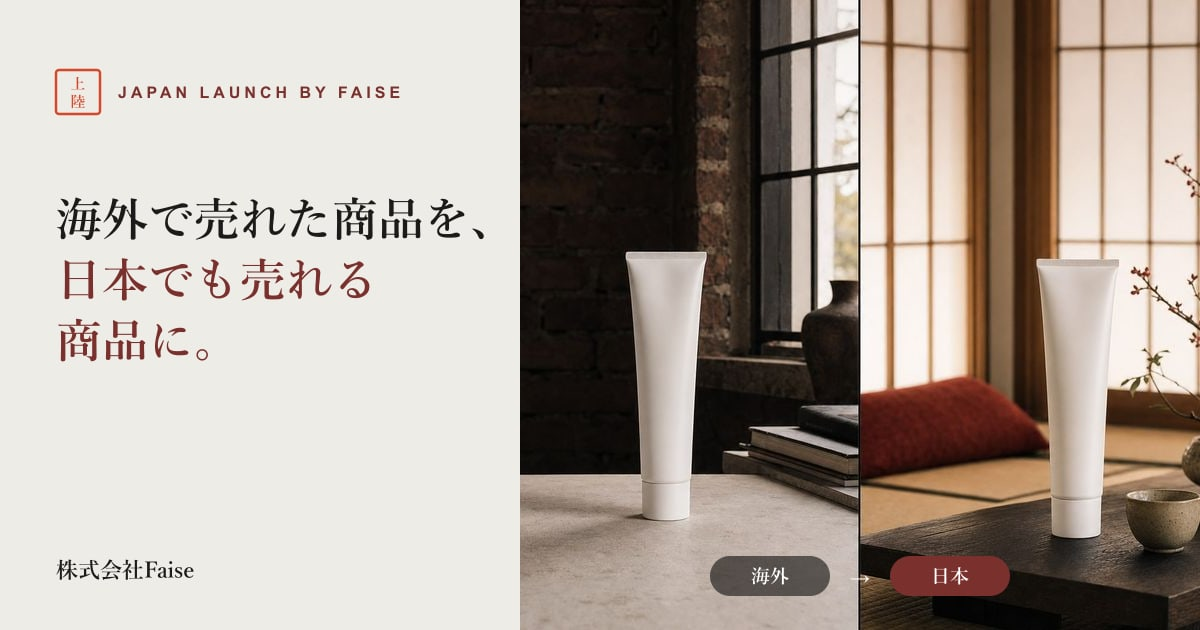
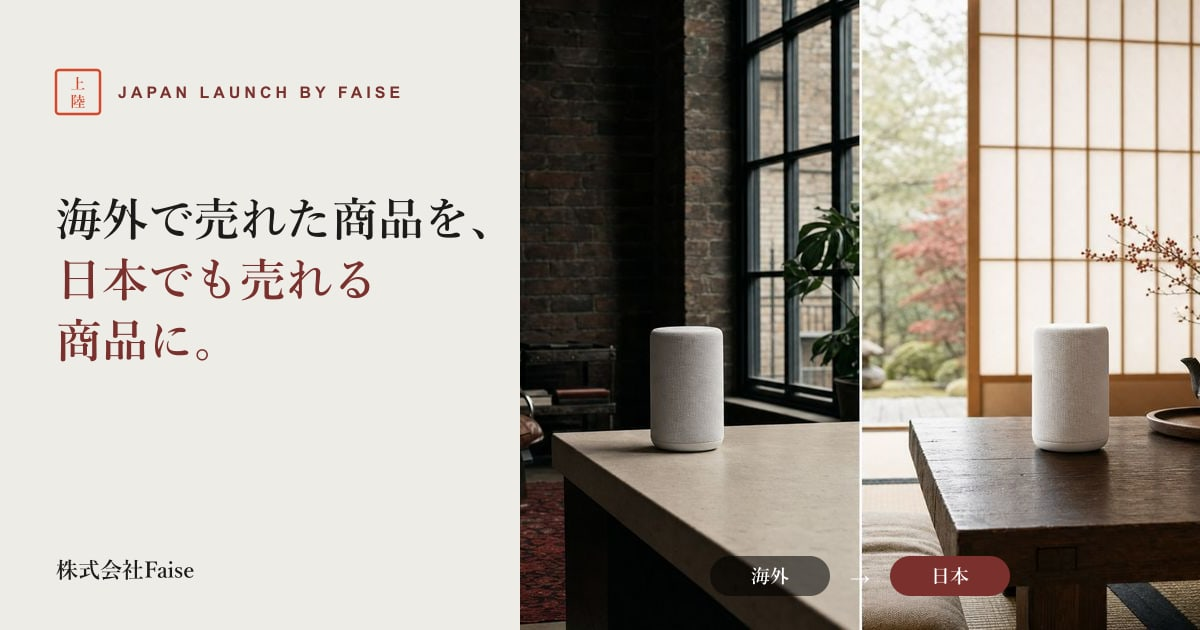
feat(japan-launch): backgrounds for Scope and Roles; restore speaker hero
- Kumiko lattice (What we handle) and tea-room (Roles) backdrops
- Hero photo back to the original speaker split-screen, renamed to
  hero-abroad-japan.jpg so cached optimized images aren't reused
- OG images regenerated from the restored hero

diff --git a/src/components/views/JapanLaunchView.tsx b/src/components/views/JapanLaunchView.tsx
@@ -347,8 +347,9 @@ export default function JapanLaunchView({ lang }: { lang: Lang }) {
       </section>
 
       {/* 6. What we handle */}
-      <section className={`${section} bg-washi`}>
-        <div className={container}>
+      <section className={`${section} relative bg-washi`}>
+        <SectionBg src="/images/japan-launch/bg-kumiko.jpg" imgClass="opacity-45" overlay="bg-gradient-to-b from-washi/85 via-washi/55 to-washi/85" />
+        <div className={`${container} relative`}>
           <Reveal className="max-w-3xl">
             <SecHead label={scope.label} kanji={kanji.scope} lines={scope.h2[lang]} />
           </Reveal>
@@ -387,8 +388,9 @@ export default function JapanLaunchView({ lang }: { lang: Lang }) {
       </section>
 
       {/* 7. Roles（役割分担） */}
-      <section className={`${section} bg-white`}>
-        <div className={container}>
+      <section className={`${section} relative bg-white`}>
+        <SectionBg src="/images/japan-launch/bg-tea.jpg" imgClass="opacity-40" overlay="bg-gradient-to-b from-white/85 via-white/50 to-white/85" />
+        <div className={`${container} relative`}>
           <Reveal className="max-w-3xl">
             <SecHead label={roles.label} kanji={kanji.roles} lines={roles.h2[lang]} />
           </Reveal>

diff --git a/src/lib/japan-launch.ts b/src/lib/japan-launch.ts
@@ -35,12 +35,12 @@ export const hero = {
   vertical: '日本上陸支援',
   // 左右分割の写真：左が海外の部屋、右が日本の和室に置かれた同じ商品（AI生成のイメージ素材）
   image: {
-    src: '/images/japan-launch/hero-split.jpg',
+    src: '/images/japan-launch/hero-abroad-japan.jpg',
     w: 1536,
     h: 1024,
     alt: {
-      en: 'The same white skincare tube shown twice: on the left in a brick-walled loft abroad, on the right on a low table in a Japanese tatami room with shoji screens',
-      ja: '同じ白いスキンケアのチューブを左右で比較した写真。左は海外のレンガ壁のロフト、右は障子のある日本の和室の座卓の上',
+      en: 'The same smart speaker shown twice: on the left in a brick-walled loft abroad, on the right on a low table in a Japanese tatami room with shoji screens',
+      ja: '同じスマートスピーカーを左右で比較した写真。左は海外のレンガ壁のロフト、右は障子のある日本の和室の座卓の上',
     } as L,
   },
   split: { abroad: { en: 'Abroad', ja: '海外' } as L, japan: { en: 'Japan', ja: '日本' } as L },
